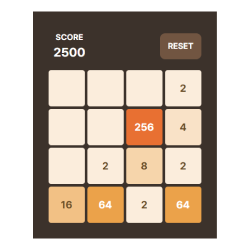
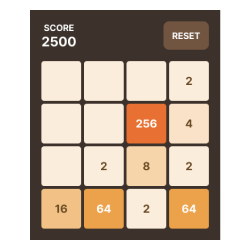
2048 - 스타일 수정

Changed region(s): [[0.112, 0.028, 0.896, 0.98], [0.56, 0.644, 0.616, 0.7], [0.392, 0.644, 0.448, 0.7]]

diff --git a/src/page/puzzle/puzzle-number.view.tsx b/src/page/puzzle/puzzle-number.view.tsx
@@ -1,23 +1,23 @@
-import { Home } from '@/src/component/common/home/home.view'
 import { PuzzleNumberStyle } from './puzzle-number.style'
 import { Board } from '@/src/component/puzzle/number/board/board.view'
 import { Button } from '@/src/component/puzzle/number/button/button.view'
 import { Score } from '@/src/component/puzzle/number/score/score.view'
 import { usePuzzleNumber } from './puzzle-number.hook'
+import { Layout } from '@/src/component/common/layout/layout.view'
 
 export function PuzzleNumber() {
     const { events } = usePuzzleNumber()
 
     return (
-        <PuzzleNumberStyle.Container>
-            <Home />
-            <PuzzleNumberStyle.SafetyContainer>
+        <Layout>
+            <PuzzleNumberStyle.Container>
                 <PuzzleNumberStyle.TopContainer>
                     <Score />
                     <Button name={'RESET'} clickCallback={events.onClickButton} />
                 </PuzzleNumberStyle.TopContainer>
+
                 <Board />
-            </PuzzleNumberStyle.SafetyContainer>
-        </PuzzleNumberStyle.Container>
+            </PuzzleNumberStyle.Container>
+        </Layout>
     )
 }

diff --git a/src/component/puzzle/number/board/item/board-item.style.ts b/src/component/puzzle/number/board/item/board-item.style.ts
@@ -1,18 +1,23 @@
 import styled from 'styled-components'
 
 export namespace BoardItemStyle {
-    export const Container = styled.div<{ text: string; background: string }>`
-        ${({ theme, text, background }) => `
+    export const Container = styled.div<{ color: string }>`
+        ${({ color }) => `
             width: 70px;
             height: 70px;
             display: grid;
             align-items: center;
             justify-items: center;
-            background-color: ${background};
+            background-color: ${color};
             border-radius: 5px;
-            ${theme.font.title2};
-            color: ${text};
             overflow: hidden;
+        `}
+    `
+
+    export const Text = styled.p<{ color: string }>`
+        ${({ theme, color }) => `
+            ${theme.font.title2};
+            color: ${color};
         `}
     `
 }

diff --git a/src/page/puzzle/puzzle-number.style.ts b/src/page/puzzle/puzzle-number.style.ts
@@ -2,24 +2,17 @@ import styled from 'styled-components'
 
 export namespace PuzzleNumberStyle {
     export const Container = styled.div`
-        display: grid;
-        justify-items: center;
-        padding: 20px;
-    `
-
-    export const SafetyContainer = styled.div`
         ${({ theme }) => `
             display: grid;
-            gap: 10px;
-            padding: 30px;
+            gap: 20px;
+            padding: 20px;
             background-color: ${theme.color.darkbrown};
         `}
     `
 
     export const TopContainer = styled.div`
         display: grid;
-        grid-template-columns: repeat(2, fit-content(150px));
-        align-items: center;
+        grid-template-columns: repeat(2, fit-content(200px));
         justify-content: space-between;
     `
 }

diff --git a/src/component/puzzle/number/board/item/board-item.view.tsx b/src/component/puzzle/number/board/item/board-item.view.tsx
@@ -3,11 +3,10 @@ import { PuzzleNumberData } from '@/redux/puzzle/puzzle-number.data'
 
 export function BoardItem({ value }: { value: number }) {
     return (
-        <BoardItemStyle.Container
-            text={PuzzleNumberData.filter((item) => item.value === value)[0].text}
-            background={PuzzleNumberData.filter((item) => item.value === value)[0].background}
-        >
-            {value}
+        <BoardItemStyle.Container color={PuzzleNumberData.filter((item) => item.value === value)[0].background}>
+            <BoardItemStyle.Text color={PuzzleNumberData.filter((item) => item.value === value)[0].text}>
+                {value}
+            </BoardItemStyle.Text>
         </BoardItemStyle.Container>
     )
 }

diff --git a/src/component/puzzle/number/button/button.style.ts b/src/component/puzzle/number/button/button.style.ts
@@ -5,11 +5,15 @@ export namespace ButtonStyle {
         ${({ theme }) => `
             background-color: ${theme.color.brown};
             border-radius: 10px;
-            ${theme.font.title3};
-            text-align: center;
-            color: ${theme.color.white};
             padding: 15px;
             cursor: pointer;
+        `}
+    `
+
+    export const Text = styled.p`
+        ${({ theme }) => `
+            ${theme.font.title3};
+            color: ${theme.color.white};
         `}
     `
 }

diff --git a/src/component/puzzle/number/button/button.view.tsx b/src/component/puzzle/number/button/button.view.tsx
@@ -1,5 +1,9 @@
 import { ButtonStyle } from './button.style'
 
 export function Button({ name, clickCallback }: { name: string; clickCallback: () => void }) {
-    return <ButtonStyle.Container onClick={clickCallback}>{name}</ButtonStyle.Container>
+    return (
+        <ButtonStyle.Container onClick={clickCallback}>
+            <ButtonStyle.Text>{name}</ButtonStyle.Text>
+        </ButtonStyle.Container>
+    )
 }

diff --git a/src/component/puzzle/number/score/score.style.ts b/src/component/puzzle/number/score/score.style.ts
@@ -3,9 +3,8 @@ import styled from 'styled-components'
 export namespace ScoreStyle {
     export const Container = styled.div`
         display: grid;
+        align-items: center;
         justify-items: center;
-        gap: 5px;
-        padding: 10px;
     `
 
     export const Title = styled.div`
